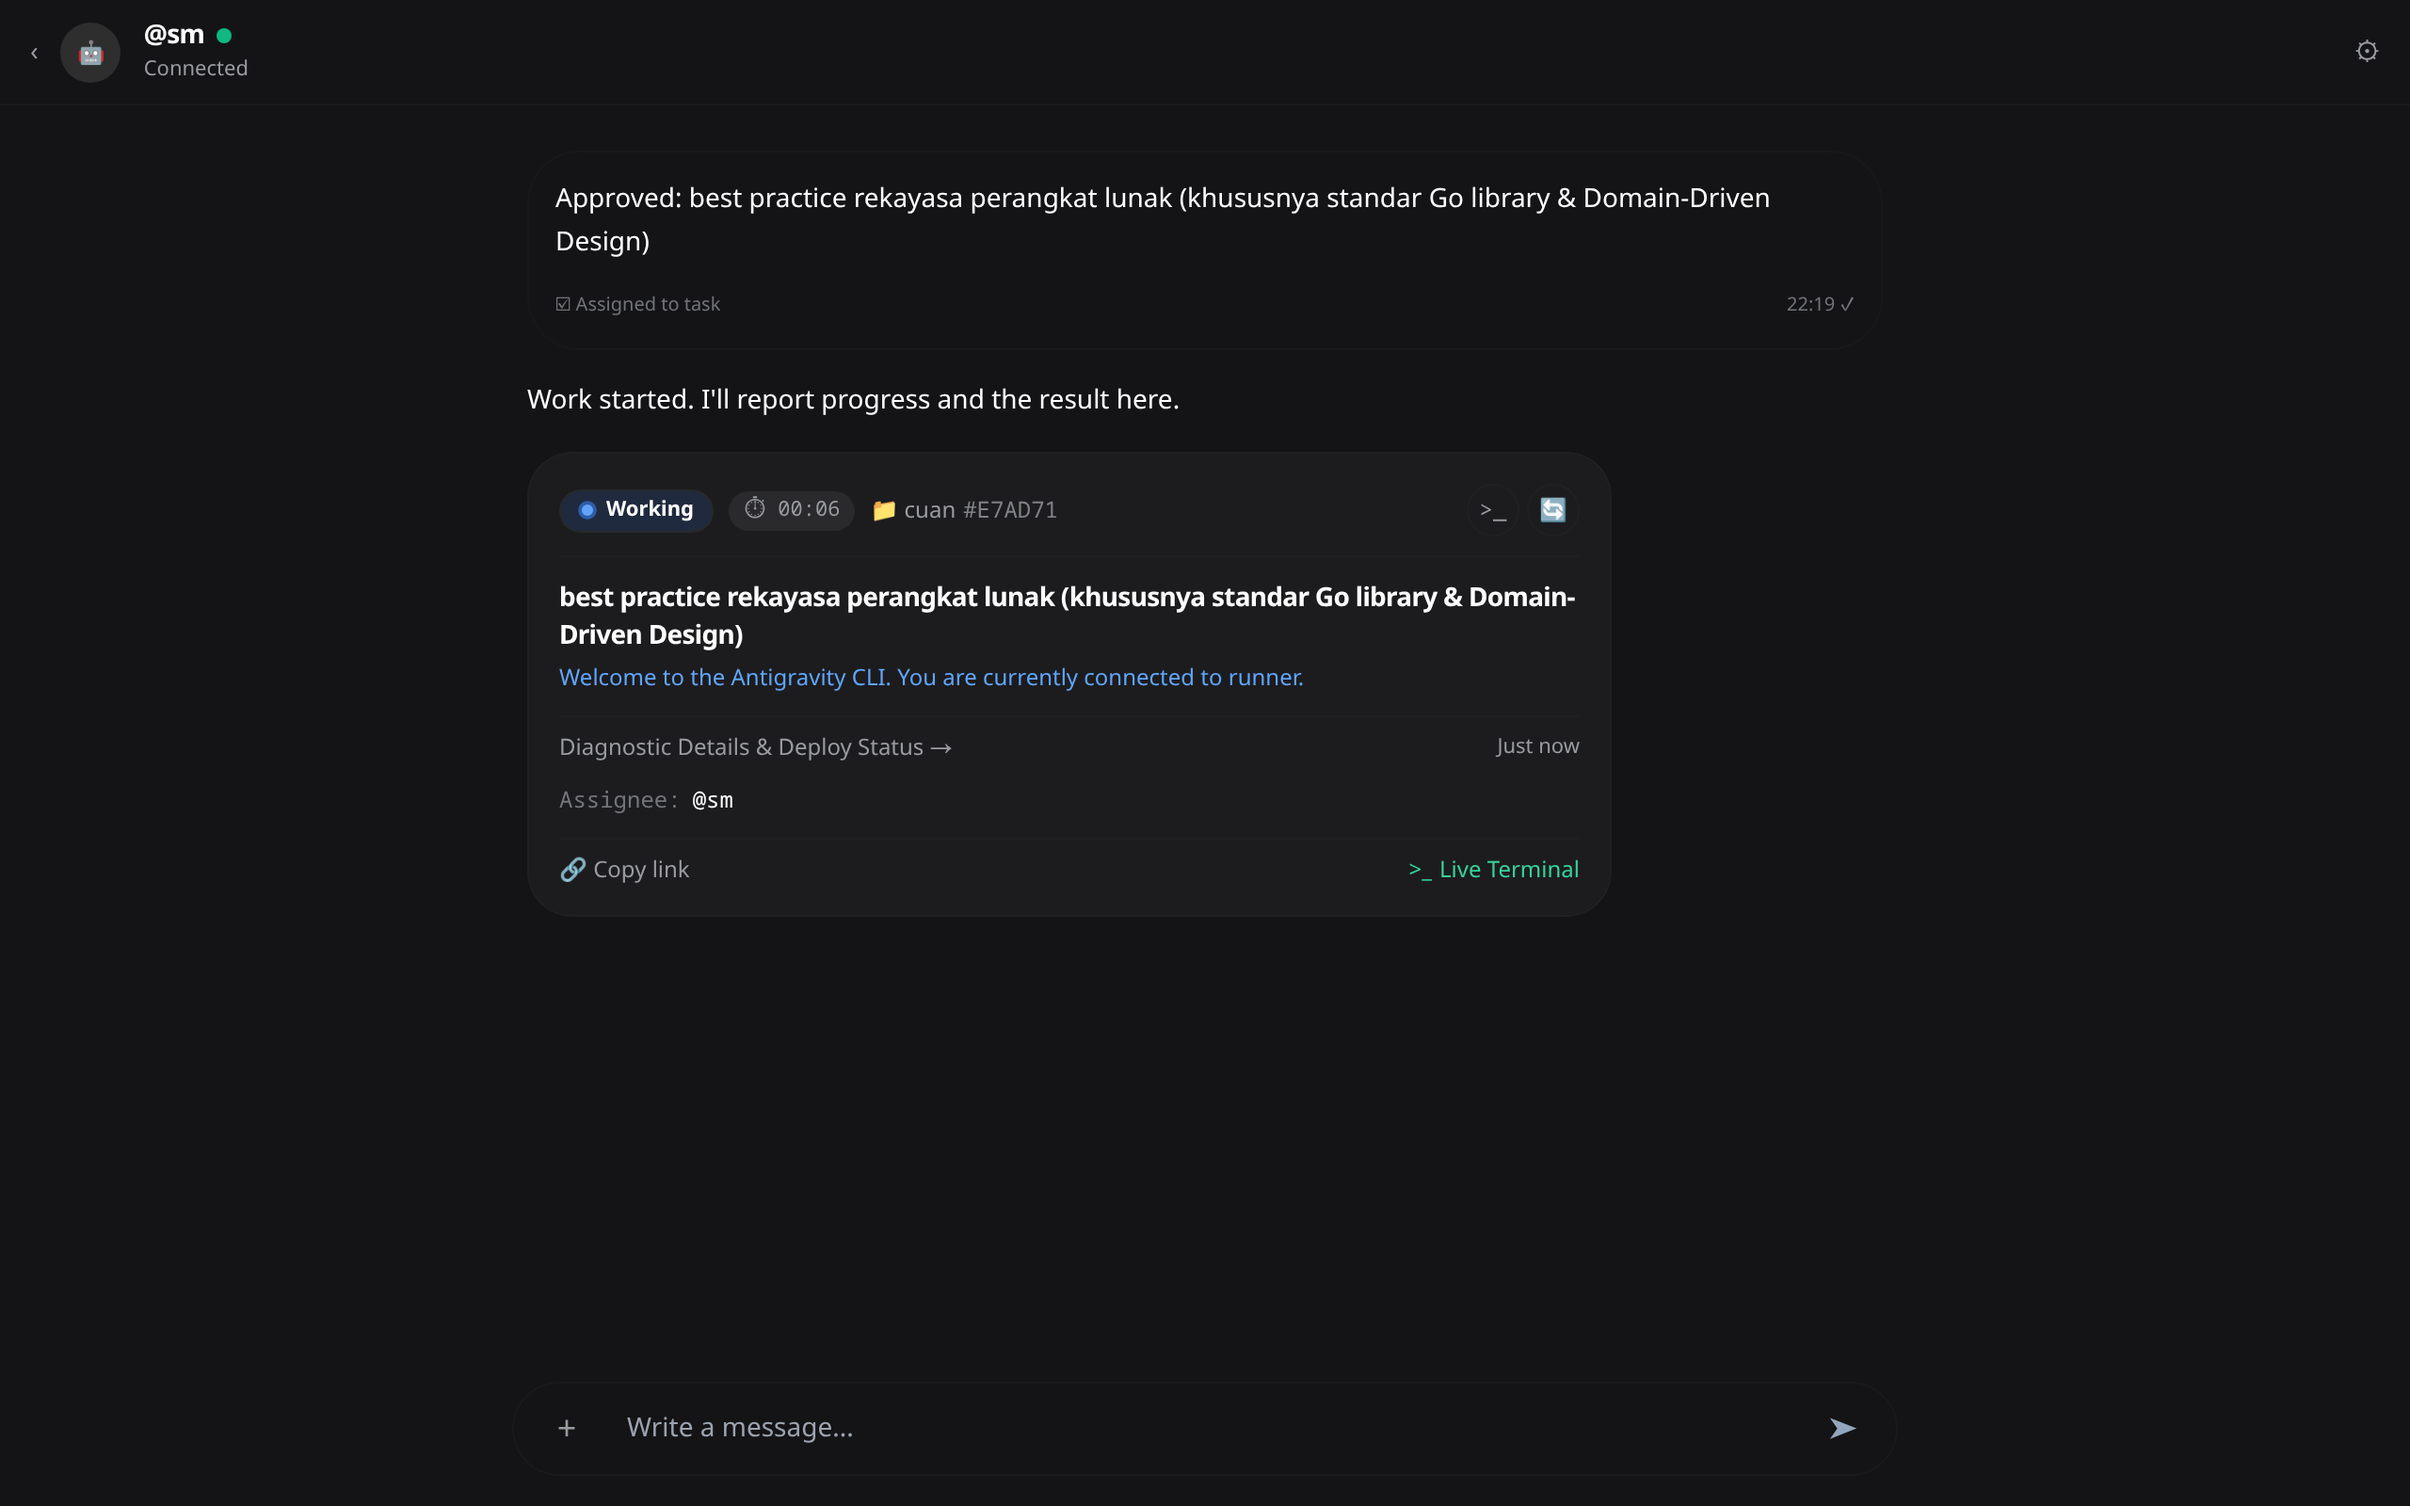
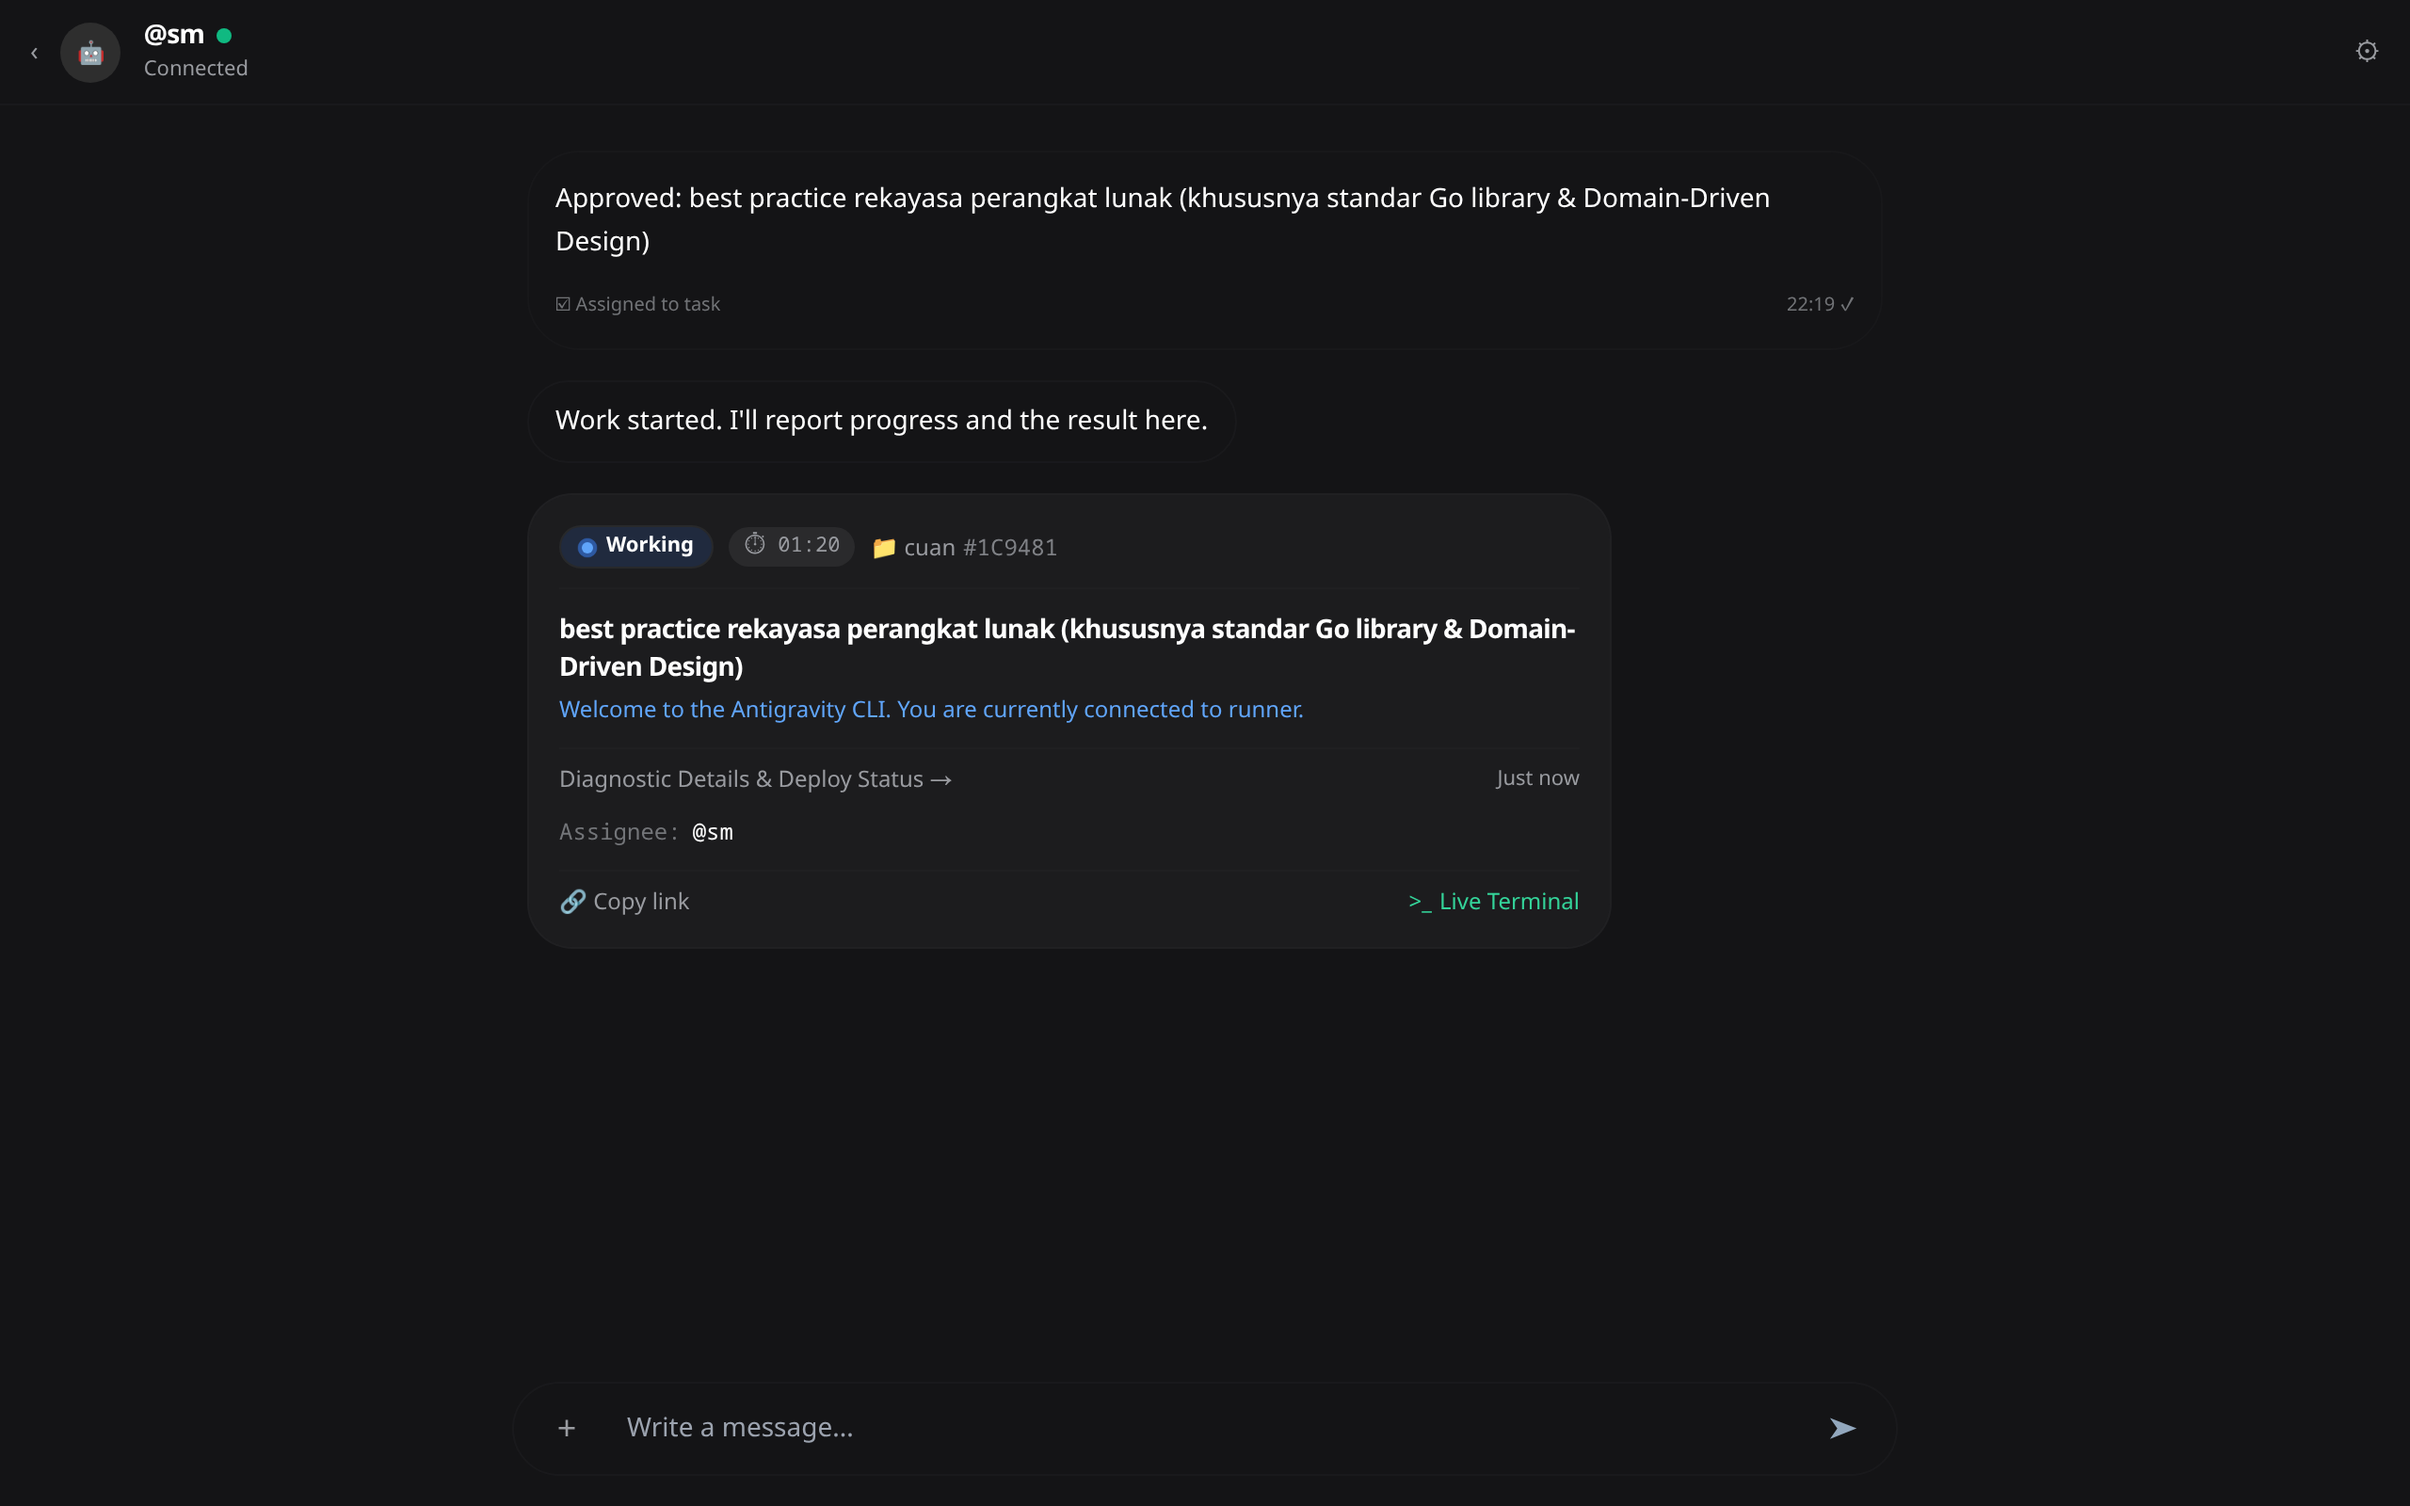
fix(inbox): eliminate redundant taskcard header buttons and add calm collapsible chat stream text

diff --git a/web/src/features/inbox/MessageContent.tsx b/web/src/features/inbox/MessageContent.tsx
@@ -1,7 +1,8 @@
 import { Link } from 'react-router-dom'
 import { CheckSquare, ArrowRight } from 'lucide-react'
 import { useLanguage } from '../../context/LanguageContext'
-import { ChatMarkdown } from './ChatMarkdown'
+import { CollapsibleChatText } from './CollapsibleChatText'
+import { cn } from '../../lib/utils'
 import { StatusReportCard, parseTaskReportMessage } from '../../components/ui/StatusReportCard'
 import { TaskCard } from './TaskCard'
 import { RoomCard } from './RoomCard'
@@ -44,6 +45,8 @@ export function MessageContent({
   onRetry,
   onContinueChat,
   isCustomerRoom,
+  hasSiblingCard = false,
+  isOutgoing = false,
 }: {
   content: string
   hideTaskActions?: boolean
@@ -54,6 +57,8 @@ export function MessageContent({
   onRetry?: (task: Task) => Promise<void> | void
   onContinueChat?: (suggestedText: string) => void
   isCustomerRoom?: boolean
+  hasSiblingCard?: boolean
+  isOutgoing?: boolean
 }) {
   const { language, t } = useLanguage()
   const { body, actions } = messageNavigation(content)
@@ -87,19 +92,39 @@ export function MessageContent({
           <StatusReportCard report={report} />
           {report.dodDetails?.remainingText && (
             <div className="pt-1">
-              <ChatMarkdown content={report.dodDetails.remainingText} onTaskClick={onTaskClick} isCustomerRoom={isCustomerRoom} />
+              <CollapsibleChatText
+                content={report.dodDetails.remainingText}
+                onTaskClick={onTaskClick}
+                isCustomerRoom={isCustomerRoom}
+                isOutgoing={isOutgoing}
+              />
             </div>
           )}
         </div>
       ) : (
-        effectiveBody ? <ChatMarkdown content={effectiveBody} onTaskClick={onTaskClick} isCustomerRoom={isCustomerRoom} /> : null
+        effectiveBody ? (
+          <div
+            className={cn(
+              'min-w-0 max-w-full',
+              (effectiveActions.length > 0 || hasSiblingCard) &&
+                'calm-message-bubble wa-incoming rounded-2xl px-4 py-2.5 mb-2.5 inline-block w-fit max-w-full text-foreground border border-border/30 shadow-none'
+            )}
+          >
+            <CollapsibleChatText
+              content={effectiveBody}
+              onTaskClick={onTaskClick}
+              isCustomerRoom={isCustomerRoom}
+              isOutgoing={isOutgoing}
+            />
+          </div>
+        ) : null
       )}
       {extractedReceipt && (
         <ReceiptPreviewCard extraction={extractedReceipt} />
       )}
       {effectiveActions.length > 0 && (
         <div
-          className="mt-3 flex flex-col gap-2.5 w-full max-w-full"
+          className="mt-1 flex flex-col gap-2.5 w-full max-w-full"
           aria-label="Message actions"
         >
           {effectiveActions.map((action) => {

diff --git a/web/src/features/inbox/TaskCard.tsx b/web/src/features/inbox/TaskCard.tsx
@@ -467,34 +467,6 @@ export function TaskCard({
             {taskRef(currentTask.id)}
           </span>
         </div>
-
-        {/* Live Terminal & Retry Actionable Controls in Header */}
-        <div className="flex items-center gap-1.5 shrink-0">
-          <button
-            type="button"
-            onClick={handleOpenTerminal}
-            data-testid="task-card-terminal-btn"
-            className="min-h-[32px] px-2.5 py-1 text-xs font-medium rounded-lg inline-flex items-center gap-1.5 text-muted-foreground hover:text-foreground hover:bg-muted/40 transition-colors cursor-pointer border border-border/40"
-            title={t('Live Terminal')}
-            aria-label={t('Live Terminal')}
-          >
-            <Terminal className="h-3.5 w-3.5 text-emerald-500 shrink-0" />
-            <span className="hidden xs:inline sm:inline">{t('Live Terminal')}</span>
-          </button>
-
-          <button
-            type="button"
-            disabled={retrying}
-            onClick={handleRetry}
-            data-testid="task-card-retry-btn"
-            className="min-h-[32px] px-2.5 py-1 text-xs font-medium rounded-lg inline-flex items-center gap-1.5 text-muted-foreground hover:text-foreground hover:bg-muted/40 transition-colors cursor-pointer border border-border/40 disabled:opacity-50"
-            title={t('Coba Lagi')}
-            aria-label={t('Coba Lagi')}
-          >
-            <RefreshCw className={cn('h-3.5 w-3.5 shrink-0', retrying && 'animate-spin text-primary')} />
-            <span className="hidden xs:inline sm:inline">{retrying ? t('Retrying...') : t('Coba Lagi')}</span>
-          </button>
-        </div>
       </div>
 
       {/* Title & Description */}
@@ -599,6 +571,7 @@ export function TaskCard({
               type="button"
               disabled={retrying}
               onClick={handleRetry}
+              data-testid="task-card-retry-btn"
               aria-label={t('Retry')}
               className="min-h-[44px] min-w-[44px] px-3.5 text-xs font-medium rounded-lg inline-flex items-center justify-center gap-1.5 text-destructive hover:bg-destructive/10 transition-colors cursor-pointer"
             >
@@ -609,7 +582,8 @@ export function TaskCard({
 
           <button
             type="button"
-            onClick={handleActionClick}
+            onClick={isWorking ? handleOpenTerminal : handleActionClick}
+            data-testid="task-card-terminal-btn"
             aria-label={`${t('Open task')}: ${currentTask.title}`}
             className="min-h-[44px] min-w-[44px] px-3.5 text-xs font-medium rounded-lg inline-flex items-center justify-center gap-1.5 text-muted-foreground hover:text-foreground hover:bg-muted/40 transition-colors cursor-pointer"
           >

diff --git a/web/src/features/inbox/CollapsibleChatText.tsx b/web/src/features/inbox/CollapsibleChatText.tsx
@@ -1,0 +1,84 @@
+import { useState } from 'react'
+import { ChevronDown, ChevronUp } from 'lucide-react'
+import { useLanguage } from '../../context/LanguageContext'
+import { ChatMarkdown } from './ChatMarkdown'
+import { cn } from '../../lib/utils'
+import type { Task } from '../../api/types'
+
+export interface CollapsibleChatTextProps {
+  content: string
+  maxLines?: number
+  maxChars?: number
+  onTaskClick?: (task: Task) => void
+  isCustomerRoom?: boolean
+  className?: string
+  isOutgoing?: boolean
+}
+
+export function CollapsibleChatText({
+  content,
+  maxLines = 7,
+  maxChars = 420,
+  onTaskClick,
+  isCustomerRoom,
+  className,
+  isOutgoing = false,
+}: CollapsibleChatTextProps) {
+  const { t } = useLanguage()
+  const [expanded, setExpanded] = useState(false)
+
+  const lineCount = content.split('\n').filter(Boolean).length
+  const isLong = content.length > maxChars || lineCount > maxLines
+
+  if (!isLong) {
+    return (
+      <div className={cn('min-w-0 max-w-full', className)}>
+        <ChatMarkdown
+          content={content}
+          onTaskClick={onTaskClick}
+          isCustomerRoom={isCustomerRoom}
+        />
+      </div>
+    )
+  }
+
+  return (
+    <div className={cn('min-w-0 max-w-full', className)}>
+      <div
+        className={cn(
+          'relative transition-all duration-200',
+          !expanded && 'max-h-[175px] overflow-hidden',
+        )}
+      >
+        <ChatMarkdown
+          content={content}
+          onTaskClick={onTaskClick}
+          isCustomerRoom={isCustomerRoom}
+        />
+        {!expanded && (
+          <div
+            className={cn(
+              'absolute inset-x-0 bottom-0 h-14 bg-gradient-to-t pointer-events-none',
+              isOutgoing
+                ? 'from-[#25272c] via-[#25272c]/80 to-transparent'
+                : 'from-[#1b1c1f] via-[#1b1c1f]/80 to-transparent',
+            )}
+          />
+        )}
+      </div>
+      <button
+        type="button"
+        onClick={() => setExpanded(!expanded)}
+        aria-expanded={expanded}
+        className="mt-1 inline-flex items-center gap-1 text-xs font-medium text-primary hover:underline cursor-pointer"
+      >
+        <span>{expanded ? t('Show less') : t('Read more')}</span>
+        {expanded ? (
+          <ChevronUp className="h-3 w-3" />
+        ) : (
+          <ChevronDown className="h-3 w-3" />
+        )}
+      </button>
+    </div>
+  )
+}

diff --git a/web/src/features/inbox/ApprovalCard.tsx b/web/src/features/inbox/ApprovalCard.tsx
@@ -1,3 +1,4 @@
+import { useState } from 'react'
 import { useLanguage } from '../../context/LanguageContext'
 import { Button } from '../../components/ui/button'
 import { ChatMarkdown } from './ChatMarkdown'
@@ -10,6 +11,8 @@ import {
   Folder,
   Pencil,
   Play,
+  ChevronDown,
+  ChevronUp,
 } from 'lucide-react'
 import type { ApprovalPlan } from '../../api/chat'
 
@@ -59,6 +62,8 @@ export function ApprovalCard({
   className,
 }: ApprovalCardProps) {
   const { t } = useLanguage()
+  const [planExpanded, setPlanExpanded] = useState(false)
+  const isLongPlan = !!plan.description && (plan.description.length > 250 || plan.description.split('\n').filter(Boolean).length > 4)
 
   return (
     <div
@@ -126,7 +131,33 @@ export function ApprovalCard({
       {/* Plan Markdown Description (Bullet points, bold, inline code, code blocks) */}
       {plan.description && (
         <div className="approval-card-description min-w-0 max-w-full text-foreground/90">
-          <ChatMarkdown content={plan.description} className="text-sm" />
+          <div
+            className={cn(
+              'relative transition-all duration-200',
+              !planExpanded && isLongPlan && 'max-h-[140px] overflow-hidden',
+            )}
+          >
+            <ChatMarkdown content={plan.description} className="text-sm" />
+            {!planExpanded && isLongPlan && (
+              <div className="absolute inset-x-0 bottom-0 h-12 bg-gradient-to-t from-card/95 via-card/60 to-transparent pointer-events-none" />
+            )}
+          </div>
+          {isLongPlan && (
+            <button
+              type="button"
+              onClick={() => setPlanExpanded(!planExpanded)}
+              aria-expanded={planExpanded}
+              data-testid="approval-card-toggle-plan"
+              className="mt-1.5 inline-flex items-center gap-1 text-xs font-medium text-primary hover:underline cursor-pointer"
+            >
+              <span>{planExpanded ? t('Hide plan details') : t('Show full plan')}</span>
+              {planExpanded ? (
+                <ChevronUp className="h-3 w-3" />
+              ) : (
+                <ChevronDown className="h-3 w-3" />
+              )}
+            </button>
+          )}
         </div>
       )}
 

diff --git a/web/src/features/inbox/InboxView.tsx b/web/src/features/inbox/InboxView.tsx
@@ -1631,6 +1631,8 @@ export function InboxView({
                           onRetry={handleTaskRetry}
                           onContinueChat={handleUseDraft}
                           isCustomerRoom={activeContact.type === 'customer'}
+                          hasSiblingCard={!!(isAgentMessage && msg.approval_plan) || !!msg.action_card}
+                          isOutgoing={isOutgoing}
                         />
                       ) : (
                         <div className="wa-plain-text whitespace-pre-wrap break-words font-sans">
